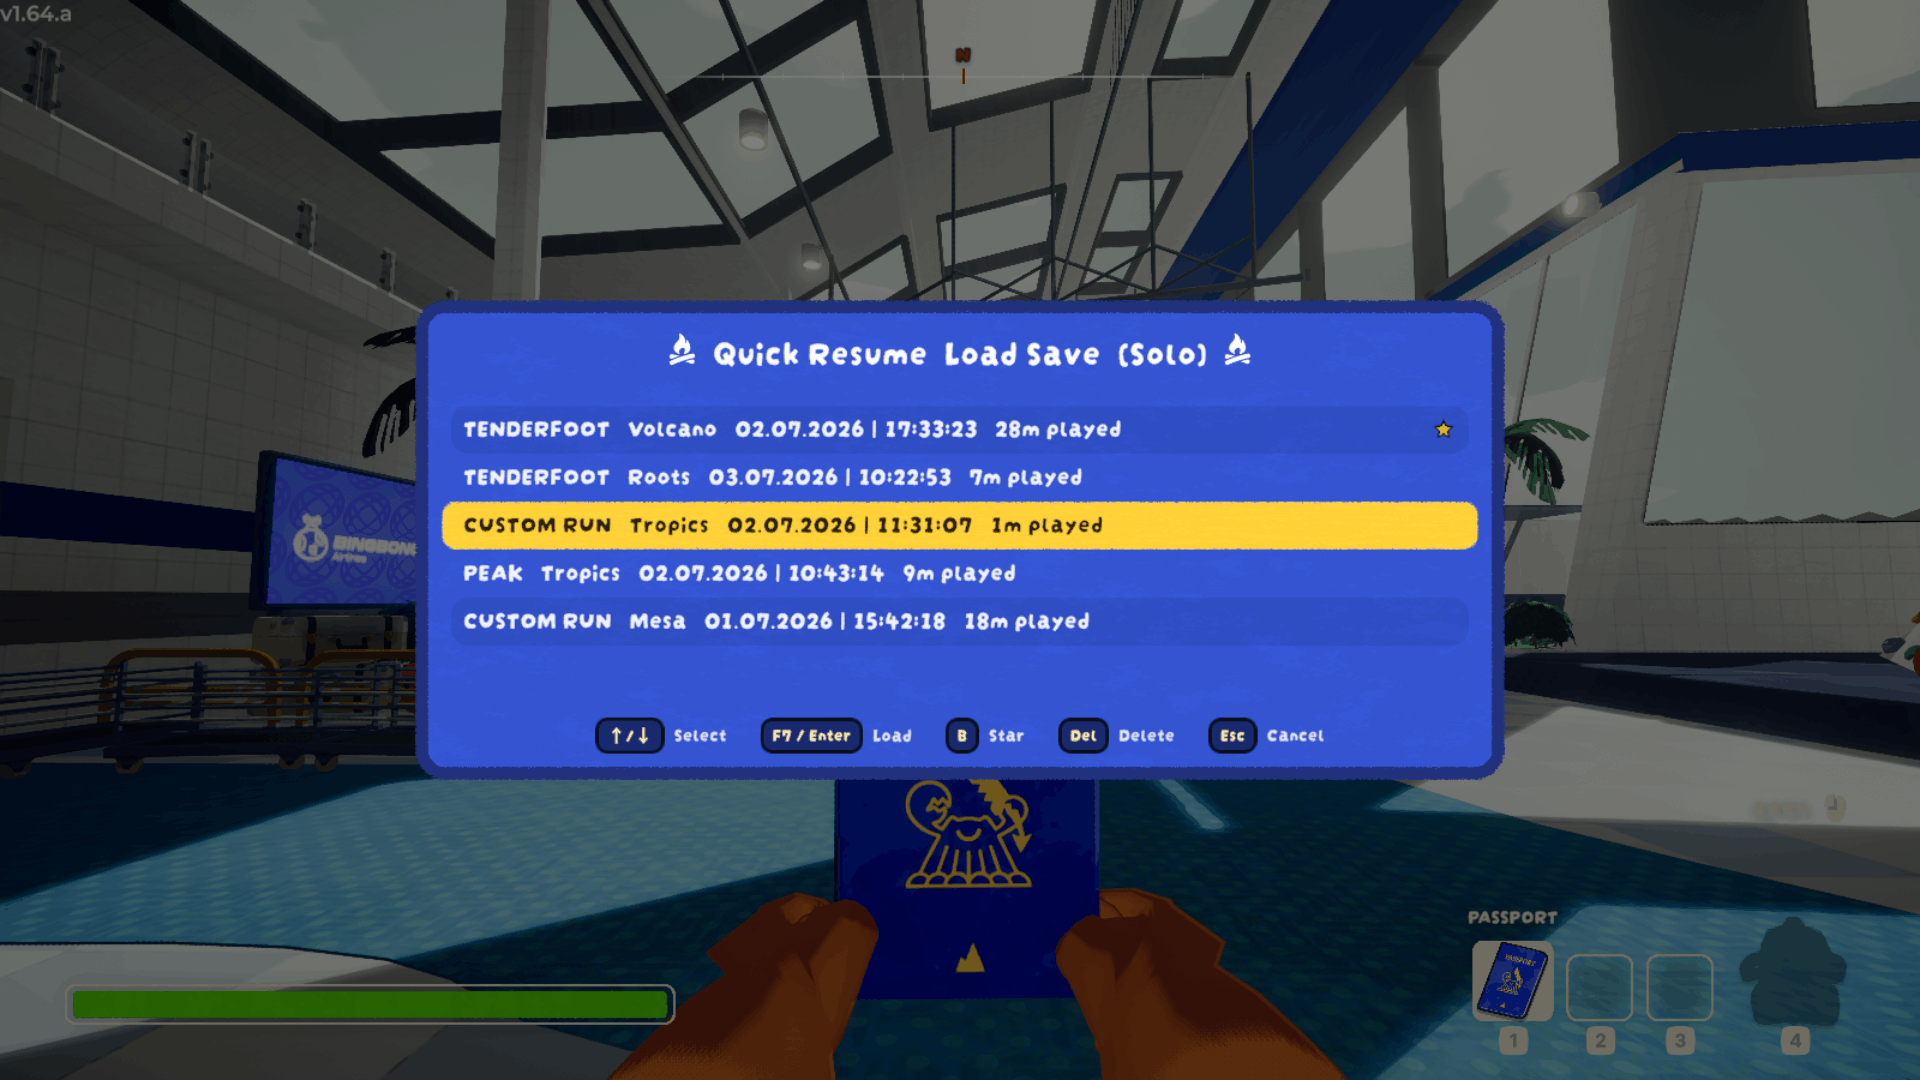
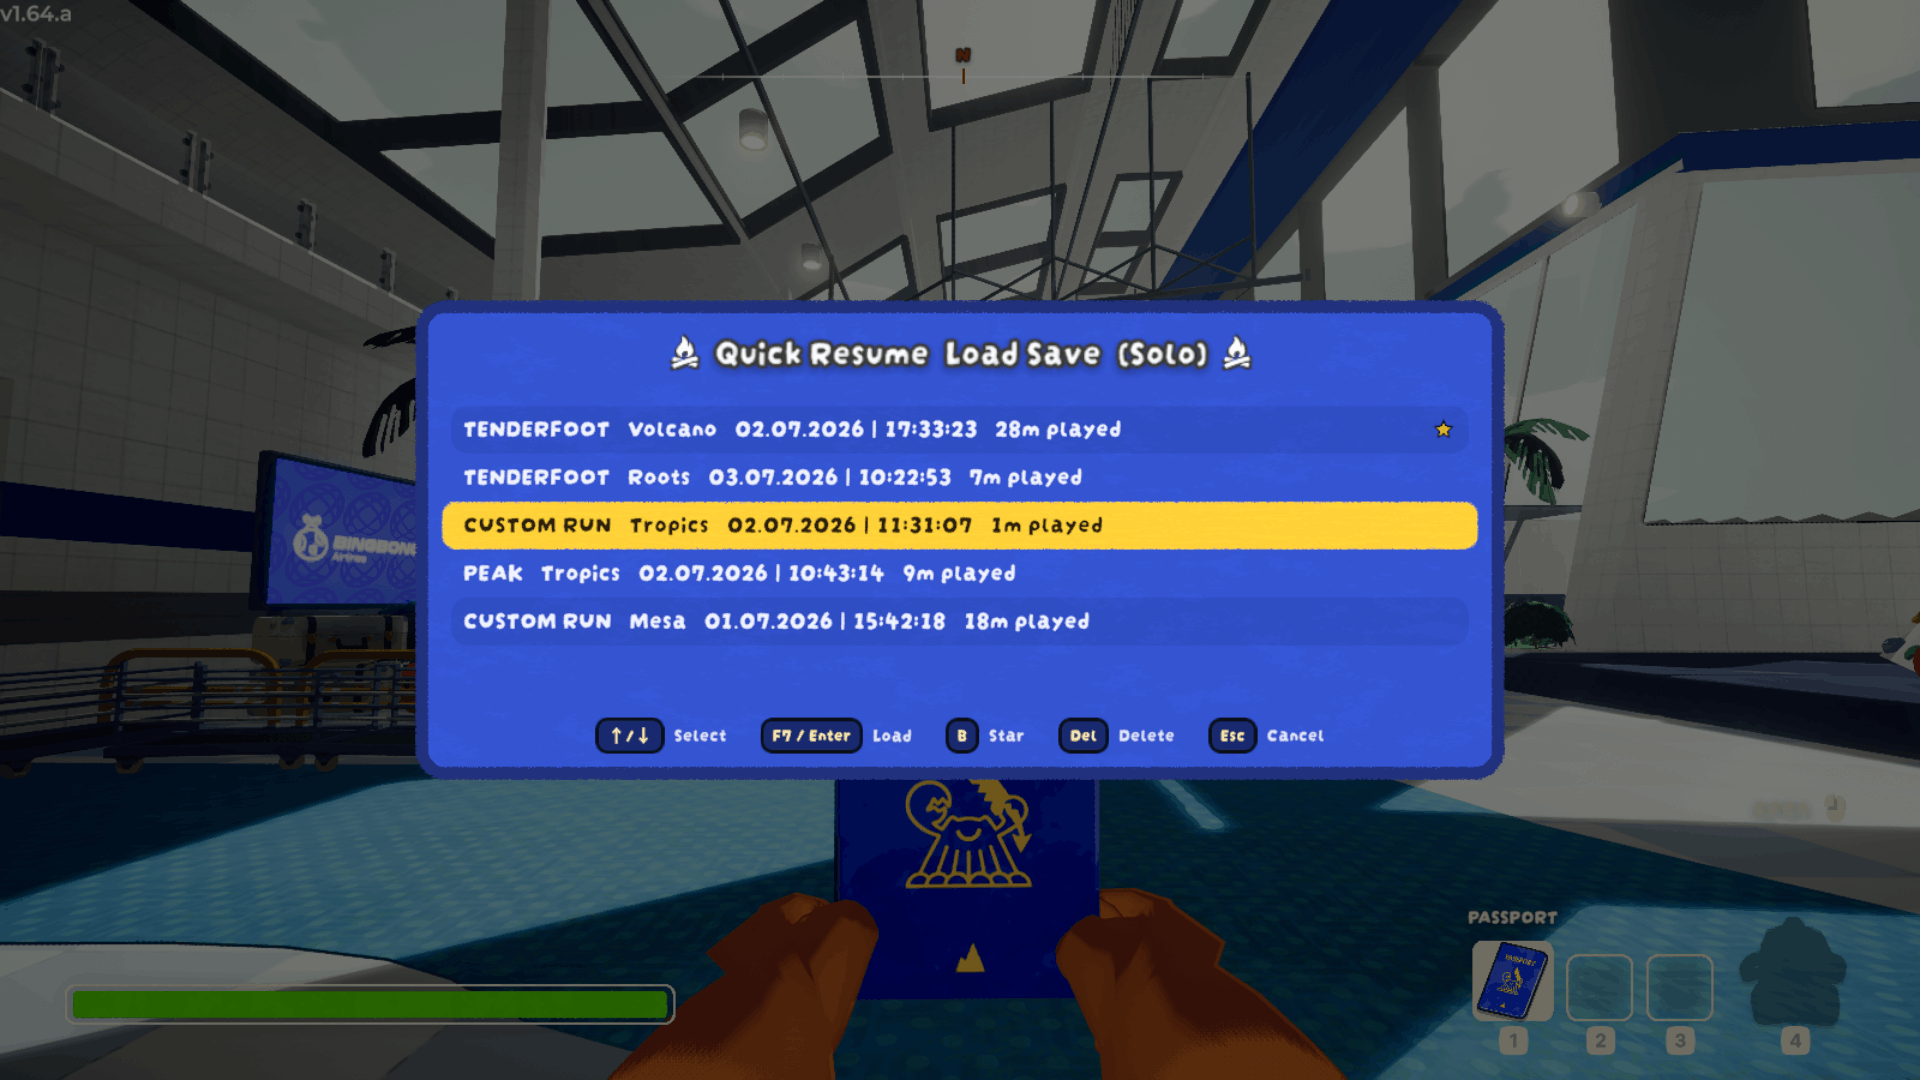
fix coop clients getting force-restored from unrelated stale saves
When the host resumes an older archived checkpoint, a client whose own
canonical save couldn't be verified as close in time to that checkpoint
(no sibling archive within a safe window, or none at all) was still
having their inventory and this-run achievement progress unconditionally
force-applied from whatever their canonical file happened to hold - which
could be a completely different, much later run (full inventory, unrelated
achievement counters). Bounded the sibling match to a 2-minute window and
propagate the resulting "no verified match" list to both
OwnInventoryRestore.RestoreAll and AchievementProgressIO.RestoreAllPlayers
so those players are left untouched instead of being rolled back to a
run they weren't part of.

Changed region(s): [[0.3438, 0.3056, 0.6562, 0.3667]]

diff --git a/src/PeakQuickResume/SaveArchive.cs b/src/PeakQuickResume/SaveArchive.cs
@@ -206,6 +206,19 @@ namespace PEAKQuickResume
         }
 
         /// <summary>
+        /// Userids of connected coop players that <see cref="RestoreCoopSiblings"/>
+        /// could NOT find a close-enough sibling archive for during the most recent
+        /// <see cref="Restore"/> call. <see cref="OwnInventoryRestore.RestoreAll"/>
+        /// checks this and skips force-applying that player's (possibly wildly stale)
+        /// canonical file, leaving their current in-game inventory untouched instead.
+        ///
+        /// Cleared at the top of every <see cref="Restore"/> call so it never leaks
+        /// into an unrelated resume (e.g. a plain "continue" that never goes through
+        /// this class at all, or a later archive restore that doesn't skip anyone)
+        /// </summary>
+        public static readonly HashSet<string> LastSkippedCoopUserIds = new HashSet<string>(StringComparer.Ordinal);
+
+        /// <summary>
         /// Copy an archived save back over the checkpoint mod's canonical file for its
         /// difficulty/category, so the mod's own load path reads the chosen checkpoint.
         /// Coop: also rolls back every OTHER connected player's own canonical file to
@@ -214,6 +227,7 @@ namespace PEAKQuickResume
         /// </summary>
         public static bool Restore(ArchivedSave save, ManualLogSource log)
         {
+            LastSkippedCoopUserIds.Clear();
             if (!RestoreOne(save.FilePath, save.Offline, log)) return false;
             if (!save.Offline) RestoreCoopSiblings(save, log);
             return true;
@@ -258,39 +272,77 @@ namespace PEAKQuickResume
         /// milliseconds apart (sequential file writes), not at an identical instant, so
         /// siblings are matched by NEAREST archived write-time to the chosen host save
         /// (restricted to the same ascent/custom-run target), not an exact match
+        ///
+        /// That "nearest" match has no ceiling on how far away it can be: if a client is
+        /// missing an archive from the same save event entirely (never wrote one, wrote
+        /// one for a different target, cleared their archive, etc.), the nearest file for
+        /// their userId could be from a completely different run - hours or days old -
+        /// and would get silently restored as-is, overwriting that client's current
+        /// progress with items/state from a run they weren't even part of. <see
+        /// cref="MaxSiblingDelta"/> bounds the match to a window wide enough to absorb
+        /// real save-event jitter but far too narrow to ever span two different runs; a
+        /// candidate outside it is treated as no match, and that client's canonical file
+        /// is left untouched here (same as if this whole feature didn't run for them)
+        /// rather than restoring the too-far candidate
+        ///
+        /// Untouched is NOT the same as safe, though: <see
+        /// cref="OwnInventoryRestore.RestoreAll"/> unconditionally re-reads and
+        /// force-applies every connected player's own canonical file on every resume,
+        /// regardless of what (if anything) happened here - so a client whose canonical
+        /// file is itself stale (last written in some earlier session, never touched
+        /// this one) would still get that stale state force-applied even though we
+        /// declined to overwrite it with an equally-stale archive. Any currently
+        /// connected coop player who doesn't end up with a verified-close match below -
+        /// whether because the nearest candidate was outside <see
+        /// cref="MaxSiblingDelta"/> or because no candidate for their userId/target
+        /// existed at all - is recorded in <see cref="LastSkippedCoopUserIds"/> so that
+        /// unconditional re-apply can be suppressed for them instead
         /// </summary>
+        private static readonly TimeSpan MaxSiblingDelta = TimeSpan.FromMinutes(2);
+
         private static void RestoreCoopSiblings(ArchivedSave hostSave, ManualLogSource log)
         {
             try
             {
                 string archiveDir = ArchiveDir(offline: false);
-                if (!Directory.Exists(archiveDir)) return;
-
                 string hostUserId = LocalUserId();
                 var bestByUser = new Dictionary<string, (string file, TimeSpan delta)>();
 
-                foreach (string file in Directory.GetFiles(archiveDir, "peak_save_*.json"))
+                if (Directory.Exists(archiveDir))
                 {
-                    string name = Path.GetFileNameWithoutExtension(file);
-                    int si = name.LastIndexOf(Sep, StringComparison.Ordinal);
-                    if (si <= 0) continue;
-                    string stem = name.Substring(0, si);
-                    string tsStr = name.Substring(si + Sep.Length);
+                    foreach (string file in Directory.GetFiles(archiveDir, "peak_save_*.json"))
+                    {
+                        string name = Path.GetFileNameWithoutExtension(file);
+                        int si = name.LastIndexOf(Sep, StringComparison.Ordinal);
+                        if (si <= 0) continue;
+                        string stem = name.Substring(0, si);
+                        string tsStr = name.Substring(si + Sep.Length);
 
-                    if (!TryGetCoopUserId(stem, out string uid) || uid == hostUserId) continue;
-                    if (!SaveDiscovery.TryParseStem(stem, offlineMode: false, out SaveTarget target)) continue;
-                    if (target.IsCustom != hostSave.Target.IsCustom || target.Ascent != hostSave.Target.Ascent) continue;
-                    if (!DateTime.TryParseExact(tsStr, TsFormat, CultureInfo.InvariantCulture,
-                            DateTimeStyles.None, out DateTime sortTime))
-                        continue;
+                        if (!TryGetCoopUserId(stem, out string uid) || uid == hostUserId) continue;
+                        if (!SaveDiscovery.TryParseStem(stem, offlineMode: false, out SaveTarget target)) continue;
+                        if (target.IsCustom != hostSave.Target.IsCustom || target.Ascent != hostSave.Target.Ascent) continue;
+                        if (!DateTime.TryParseExact(tsStr, TsFormat, CultureInfo.InvariantCulture,
+                                DateTimeStyles.None, out DateTime sortTime))
+                            continue;
 
-                    TimeSpan delta = (sortTime - hostSave.SortTime).Duration();
-                    if (!bestByUser.TryGetValue(uid, out var current) || delta < current.delta)
-                        bestByUser[uid] = (file, delta);
+                        TimeSpan delta = (sortTime - hostSave.SortTime).Duration();
+                        if (delta > MaxSiblingDelta) continue;
+                        if (!bestByUser.TryGetValue(uid, out var current) || delta < current.delta)
+                            bestByUser[uid] = (file, delta);
+                    }
                 }
 
                 foreach (var kv in bestByUser)
                     RestoreOne(kv.Value.file, offline: false, log);
+
+                foreach (Photon.Realtime.Player p in PhotonNetwork.PlayerList)
+                {
+                    string uid = p?.UserId ?? "";
+                    if (uid.Length == 0 || uid == hostUserId || bestByUser.ContainsKey(uid)) continue;
+                    LastSkippedCoopUserIds.Add(uid);
+                    log?.LogInfo($"[archive] No archived save within {MaxSiblingDelta.TotalMinutes:F0}m of the "
+                        + $"chosen checkpoint for userId '{uid}'; leaving their inventory untouched on restore.");
+                }
             }
             catch (Exception e)
             {

diff --git a/src/PeakQuickResume/AchievementProgressIO.cs b/src/PeakQuickResume/AchievementProgressIO.cs
@@ -238,6 +238,16 @@ namespace PEAKQuickResume
         /// ever sees their own), so the host can only apply this directly to itself -
         /// every other player's restore has to be handed to that player's own machine
         /// via a targeted RPC
+        ///
+        /// Coop: mirrors OwnInventoryRestore.RestoreAll's use of
+        /// SaveArchive.LastSkippedCoopUserIds - a player whose own canonical file
+        /// SaveArchive couldn't verify as close to the chosen checkpoint gets `saved`
+        /// left null here too, rather than reading their (possibly unrelated-run) file.
+        /// This is unconditionally safe per ApplyLocal's own remarks: null just primes
+        /// the same fresh baseline a normal run start already would, and this class
+        /// never touches permanent Steam achievement unlocks either way (see class
+        /// remarks) - so skipping can only ever cost a bit of this-run progress
+        /// tracking, never revert or fabricate an actual unlock
         /// </summary>
         public static void RestoreAllPlayers(SaveTarget target, bool offline, OwnLoadEntryPoints entryPoints, ManualLogSource log)
         {
@@ -252,18 +262,25 @@ namespace PEAKQuickResume
                     PhotonView playerView = player.GetComponent<PhotonView>();
 
                     OwnSavedAchievementProgress saved = null;
-                    try
+                    if (offline || !SaveArchive.LastSkippedCoopUserIds.Contains(userId))
                     {
-                        string path = OwnSavePaths.For(target, offline, userId);
-                        if (File.Exists(path))
+                        try
                         {
-                            var data = JsonConvert.DeserializeObject<OwnSaveData>(File.ReadAllText(path));
-                            saved = data?.achievementProgress;
+                            string path = OwnSavePaths.For(target, offline, userId);
+                            if (File.Exists(path))
+                            {
+                                var data = JsonConvert.DeserializeObject<OwnSaveData>(File.ReadAllText(path));
+                                saved = data?.achievementProgress;
+                            }
+                        }
+                        catch (Exception e)
+                        {
+                            log?.LogWarning($"AchievementProgressIO.RestoreAllPlayers: could not read save for userId '{userId}': {e.Message}");
                         }
                     }
-                    catch (Exception e)
+                    else
                     {
-                        log?.LogWarning($"AchievementProgressIO.RestoreAllPlayers: could not read save for userId '{userId}': {e.Message}");
+                        log?.LogInfo($"AchievementProgressIO: skipping restore for '{userId}' - no verified-close save for this checkpoint; priming a fresh baseline instead.");
                     }
 
                     if (offline || (playerView != null && playerView.IsMine))

diff --git a/src/PeakQuickResume/OwnInventoryRestore.cs b/src/PeakQuickResume/OwnInventoryRestore.cs
@@ -62,12 +62,24 @@ namespace PEAKQuickResume
                 PhotonView playerView = player.GetComponent<PhotonView>();
 
                 OwnSaveData data = null;
-                try
+                if (offline || !SaveArchive.LastSkippedCoopUserIds.Contains(userId))
                 {
-                    string path = OwnSavePaths.For(target, offline, userId);
-                    data = JsonConvert.DeserializeObject<OwnSaveData>(File.ReadAllText(path));
+                    try
+                    {
+                        string path = OwnSavePaths.For(target, offline, userId);
+                        data = JsonConvert.DeserializeObject<OwnSaveData>(File.ReadAllText(path));
+                    }
+                    catch { /* matches the original: null data below is handled per-field */ }
                 }
-                catch { /* matches the original: null data below is handled per-field */ }
+                else
+                {
+                    // SaveArchive couldn't verify this player's own canonical file is close
+                    // enough in time to the checkpoint the host just picked (see
+                    // SaveArchive.LastSkippedCoopUserIds remarks) - leave data null so every
+                    // data-gated restore step below is skipped and this player's current,
+                    // actually-correct inventory/afflictions/etc. are left alone
+                    log?.LogInfo($"OwnInventoryRestore: skipping restore for '{userId}' - no verified-close save for this checkpoint.");
+                }
 
                 ch.refs.afflictions.RemoveAllThorns();
 

diff --git a/src/PeakQuickResume/ResumeOrchestrator.cs b/src/PeakQuickResume/ResumeOrchestrator.cs
@@ -92,6 +92,14 @@ namespace PEAKQuickResume
         {
             _running = true;
 
+            // Clear any coop skip-list left over from a PRIOR archive-picker restore
+            // this session before deciding anything about THIS resume: SaveArchive.Restore
+            // (which populates it) only runs below when _chosen != null, so a plain
+            // "continue" resume right after an archive-picker one would otherwise still
+            // see stale entries and wrongly skip restoring an unrelated player's own,
+            // perfectly legitimate current save (see SaveArchive.LastSkippedCoopUserIds)
+            SaveArchive.LastSkippedCoopUserIds.Clear();
+
             // Lift any watch window still running from a prior load right away: the
             // Airport-return/fresh-run-start below is US legitimately moving the player,
             // not the checkpoint mod's own teleport, and would otherwise look like a bad

diff --git a/src/PeakQuickResume/PluginInfo.cs b/src/PeakQuickResume/PluginInfo.cs
@@ -5,6 +5,6 @@ namespace PEAKQuickResume
     {
         public const string Guid = "OnlyCook.PEAKQuickResume";
         public const string Name = "PEAK Quick Resume";
-        public const string Version = "2.0.0";
+        public const string Version = "2.0.1";
     }
 }

diff --git a/packaging/CHANGELOG.md b/packaging/CHANGELOG.md
@@ -1,3 +1,10 @@
+## 2.0.1
+
+- Update visual style of some labels in the save picker and the help screen. Also actually centered the campfire icon.
+- Fixed an issue where clients would be matched a save file that is completely unrelated to the loaded one if it was saved without that client in-game.
+- Add widescreen support to the save picker and help screen panels.
+- Fixed two unlocalized thus in english hard-coded strings and added their corresponding translations.
+
 ## 2.0.0
 
 **TL;DR:** You don't need `PEAK Checkpoint Save` anymore (I'd recommend removing that mod). The loading screen is now pretty clean, save loading should be more stable and in solo slightly faster. Items on the ground, backpacks, luggage, the Ancient Statue, some deployables, player attached entities, a player's temporary 4th slot, the day and achievement progress' are now being saved and restored (at least while they are close to the campfire).